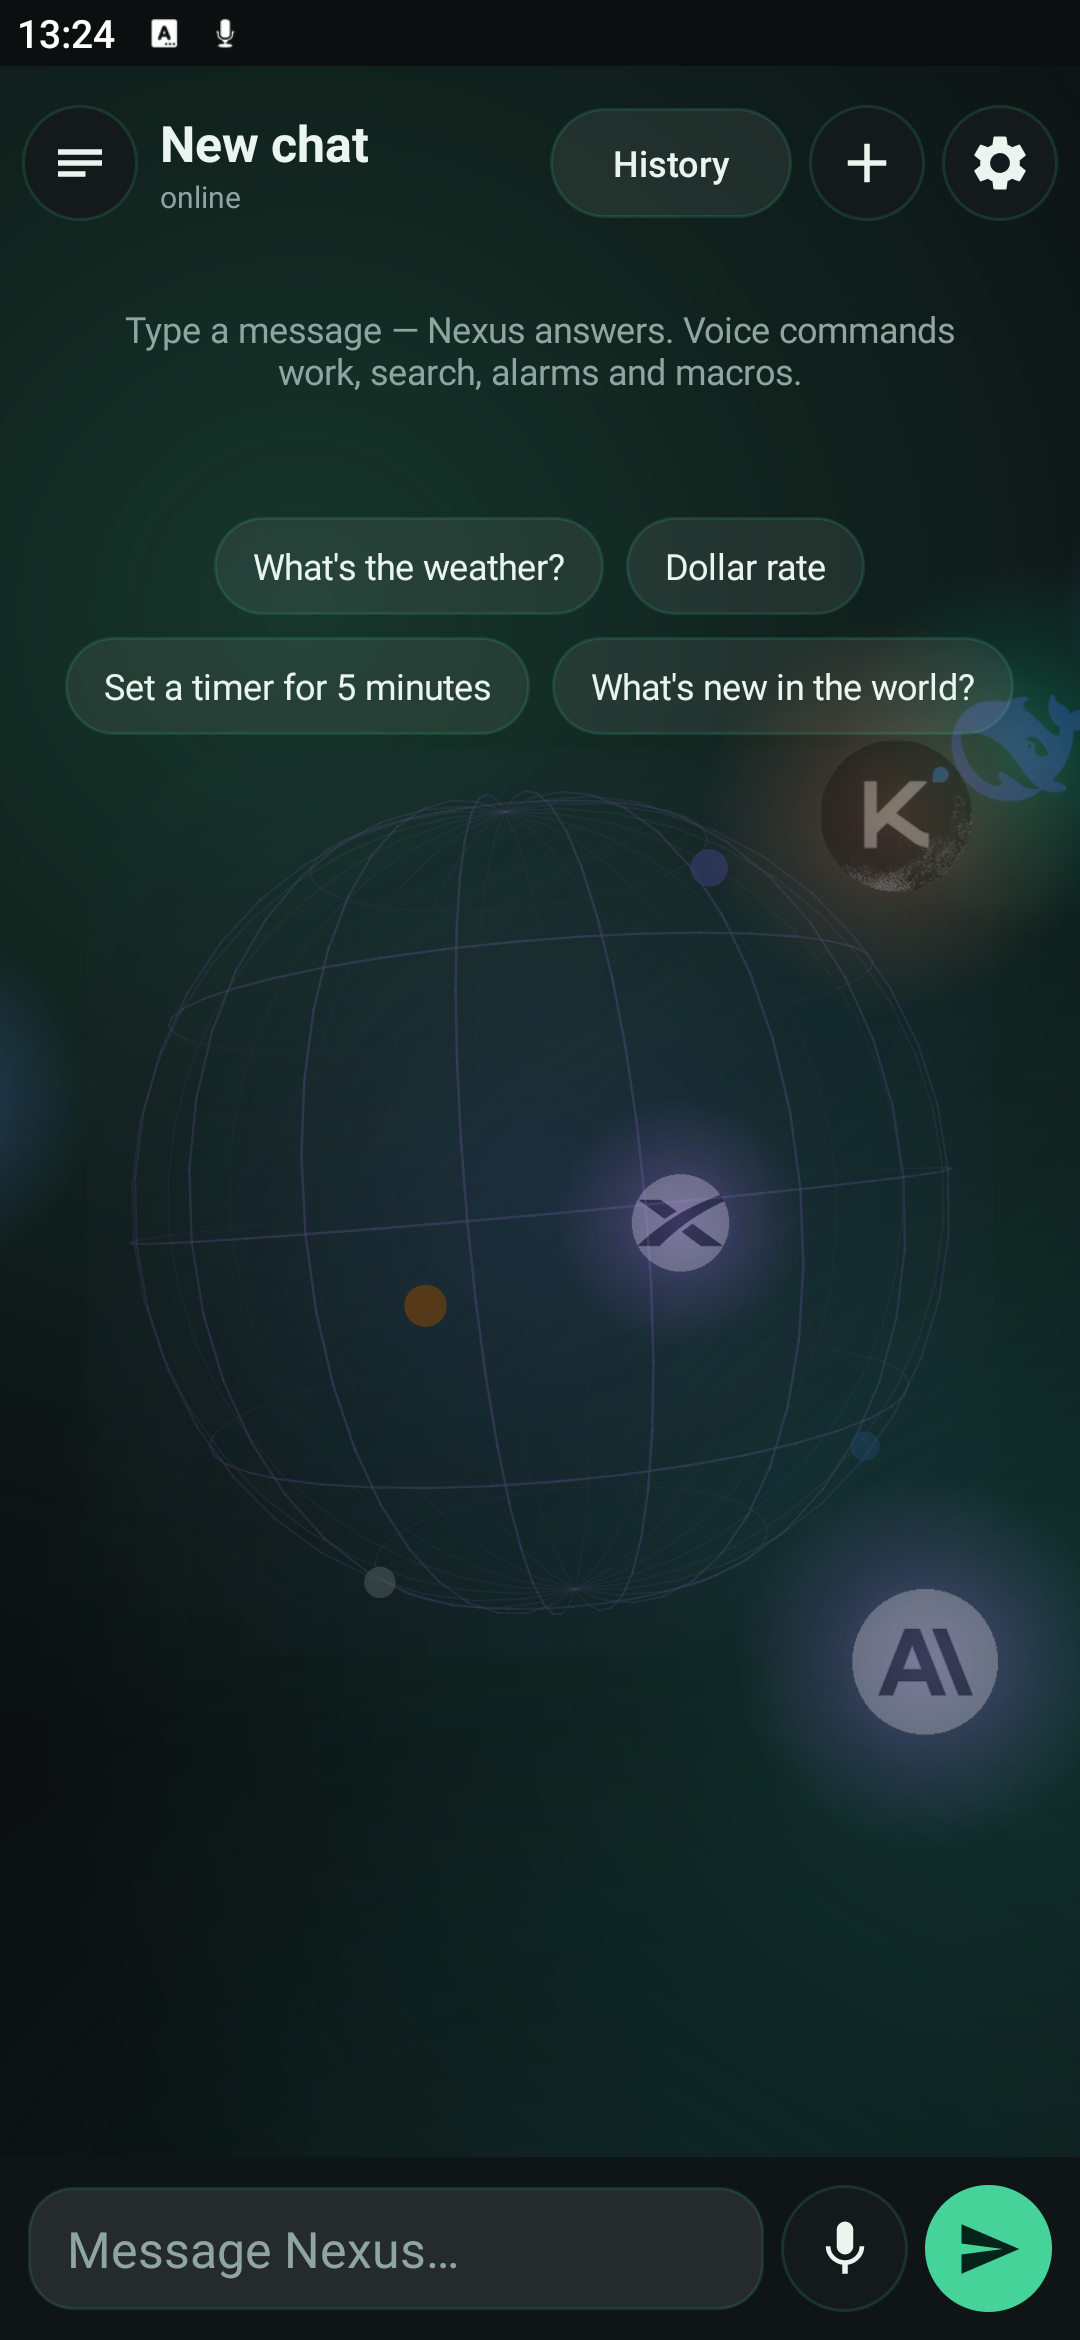
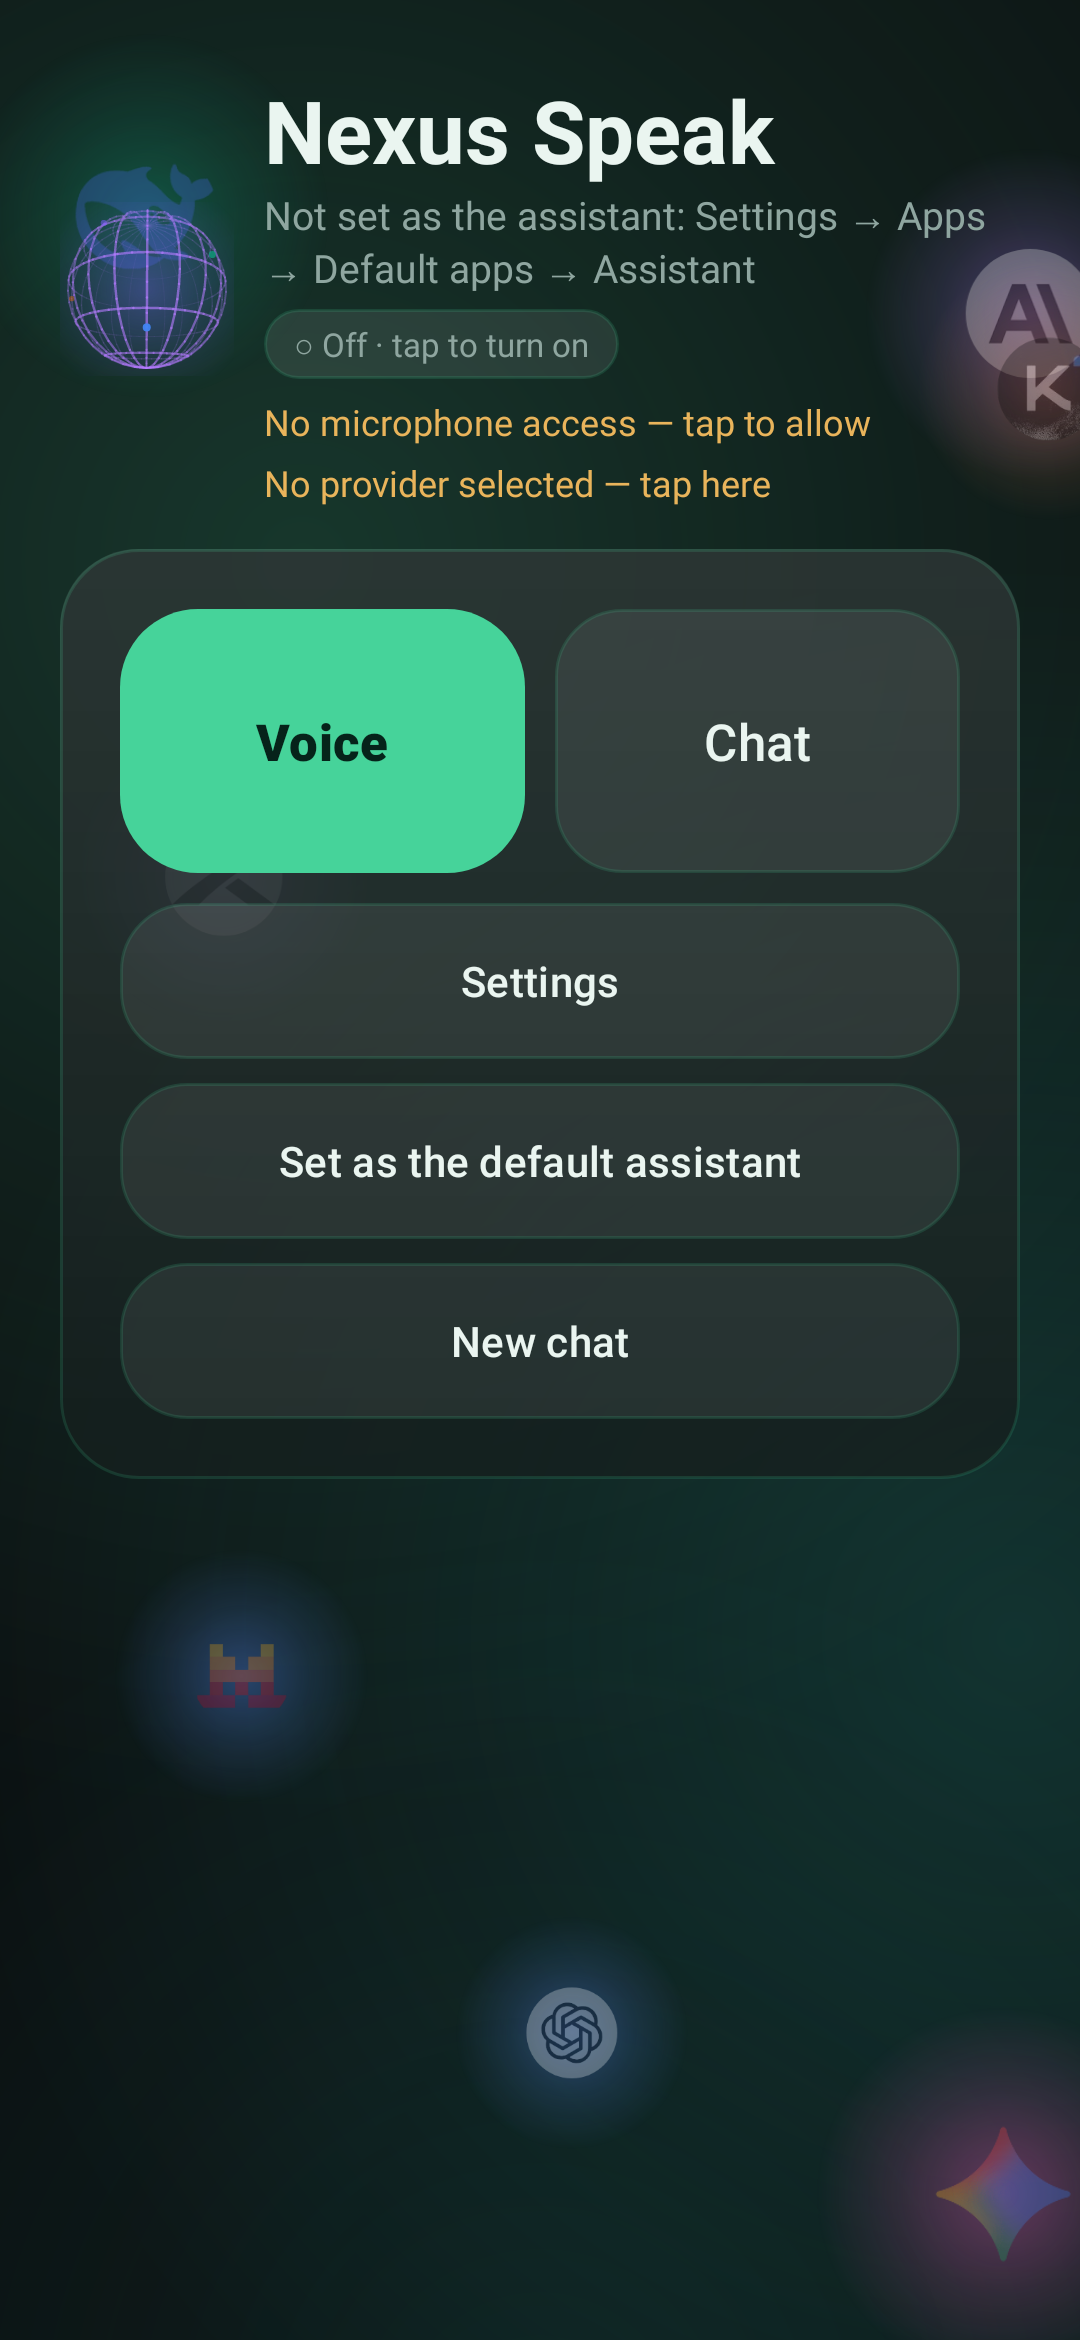
docs: настоящий главный экран и свежие настройки трёх тем (EN)

diff --git a/app/src/test/java/com/local/aivoice/ShotTest.java b/app/src/test/java/com/local/aivoice/ShotTest.java
@@ -1,0 +1,58 @@
+package com.local.aivoice;
+
+import android.app.Activity;
+import android.content.Context;
+import android.graphics.Bitmap;
+import android.graphics.Canvas;
+import android.view.View;
+import android.view.View.MeasureSpec;
+
+import org.junit.Test;
+import org.junit.runner.RunWith;
+import org.robolectric.Robolectric;
+import org.robolectric.RobolectricTestRunner;
+import org.robolectric.RuntimeEnvironment;
+import org.robolectric.annotation.Config;
+import org.robolectric.annotation.GraphicsMode;
+import org.robolectric.shadows.ShadowLooper;
+
+import java.io.File;
+import java.io.FileOutputStream;
+
+/** Снимает главный экран в английской графитовой теме для README. */
+@RunWith(RobolectricTestRunner.class)
+@Config(sdk = 34, qualifiers = "en-rUS-w360dp-h780dp-xxhdpi")
+@GraphicsMode(GraphicsMode.Mode.NATIVE)
+public class ShotTest {
+
+    @Test
+    public void mainGraphite() throws Exception {
+        Context ctx = RuntimeEnvironment.getApplication();
+        ctx.getSharedPreferences("settings", Context.MODE_PRIVATE).edit()
+                .putString("theme", "graphite")
+                .putString("lang", "en")
+                .apply();
+        androidx.appcompat.app.AppCompatDelegate.setDefaultNightMode(
+                androidx.appcompat.app.AppCompatDelegate.MODE_NIGHT_YES);
+
+        Activity activity = Robolectric.buildActivity(MainActivity.class).setup().get();
+        Thread.sleep(2600);
+        ShadowLooper.idleMainLooper();
+
+        View root = activity.getWindow().getDecorView();
+        root.measure(MeasureSpec.makeMeasureSpec(1080, MeasureSpec.EXACTLY),
+                MeasureSpec.makeMeasureSpec(2340, MeasureSpec.EXACTLY));
+        root.layout(0, 0, 1080, 2340);
+        Bitmap bmp = Bitmap.createBitmap(1080, 2340, Bitmap.Config.ARGB_8888);
+        Canvas canvas = new Canvas(bmp);
+        canvas.drawColor(0xFF08080C);
+        root.draw(canvas);
+
+        File dir = new File(System.getProperty("user.home"), "speak-shots");
+        dir.mkdirs();
+        try (FileOutputStream fos = new FileOutputStream(new File(dir, "en-main-graphite.png"))) {
+            bmp.compress(Bitmap.CompressFormat.PNG, 100, fos);
+        }
+        System.out.println("SHOT en-main-graphite.png");
+    }
+}
